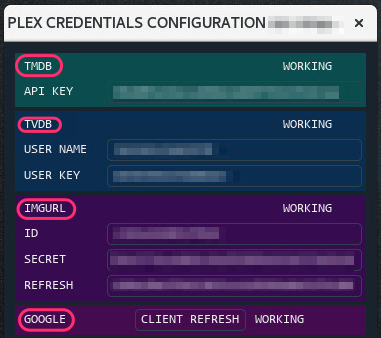
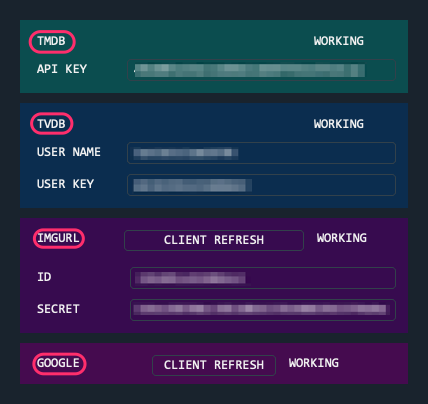
Fixing out the Imgur settings configuration
Changes to be committed:
	modified:   docs/source/conf.py
	modified:   docs/source/plex-config/plex-config-gui-figures/plex_credentials_mainfigure.png
	typechange: docs/source/plex-config/plex-config-services-figures/google_step01_credentials.png
	modified:   docs/source/plex-config/plex-config-services-figures/google_step02_refreshcredentials.png
	new file:   docs/source/plex-config/plex-config-services-figures/imgur_step01_registerapp.png
	new file:   docs/source/plex-config/plex-config-services-figures/imgur_step02_getclientsecret.png
	new file:   docs/source/plex-config/plex-config-services-figures/imgur_step03_clientsecret.png
	copied:     docs/source/plex-config/plex-config-services-figures/google_step01_credentials.png -> docs/source/plex-config/plex-config-services-figures/imgur_step04_credentials.png
	new file:   docs/source/plex-config/plex-config-services-figures/imgur_step05_authorizeaccount.png
	new file:   docs/source/plex-config/plex-config-services-figures/imgur_step06a_launchedURL.png
	new file:   docs/source/plex-config/plex-config-services-figures/imgur_step06b_copyURLdialog.png
	modified:   docs/source/plex-config/plex_config_gui_usage.rst
	modified:   docs/source/plex-config/plex_services_config.rst
	modified:   plexcore/plexcore.py
	modified:   plexcore/plexcore_attic.py

diff --git a/plexcore/plexcore.py b/plexcore/plexcore.py
@@ -1045,12 +1045,10 @@ def fill_out_movies_stuff( fullURL = 'http://localhost:32400', token = None,
             pool.map(_solve_problem_row, problem_rows ) )
         return movie_data_rows, genres
     
-def get_movie_titles_by_year( year, fullURL = 'http://localhost:32400',
-                              token = None ):
-    if token is None:
-        params = {}
-    else:
-        params = { 'X-Plex-Token' : token }
+def get_movie_titles_by_year(
+    year, fullURL = 'http://localhost:32400', token = None ):
+    if token is None: params = {}
+    else: params = { 'X-Plex-Token' : token }
     params['year'] = year
     libraries_dict = get_libraries( token = token, fullURL = fullURL )
     if libraries_dict is None:
@@ -1092,9 +1090,8 @@ def get_lastN_movies( lastN, token, fullURL = 'http://localhost:32400',
         plextmdb.get_movie( elem['title'] ) ),
                     valid_video_elems ) )
 
-"""
-All this stuff I found at https://support.plex.tv/hc/en-us/articles/201638786-Plex-Media-Server-URL-Commands
-"""
+#
+## All this stuff I found at https://support.plex.tv/hc/en-us/articles/201638786-Plex-Media-Server-URL-Commands
 def refresh_library( library_key, library_dict, fullURL = 'http://localhost:32400', token = None ):    
     assert( library_key in library_dict )
     if token is None: params = { }
@@ -1114,18 +1111,6 @@ def _get_failing_artistalbum( filename ):
 def get_lastupdated_string( dt = datetime.datetime.now( ) ):
     return dt.strftime('%A, %d %B %Y, at %-I:%M %p')
 
-def get_tvshownames_gspread( ):
-    import oauth2client.file, httplib2
-    credPath = os.path.join( mainDir, 'resources', 'credentials_gspread.json' )
-    storage = oauth2client.file.Storage( credPath )
-    credentials = storage.get( )
-    credentials.refresh( httplib2.Http( ) )
-    gclient = gspread.authorize( credentials )
-    sURL = 'https://docs.google.com/spreadsheets/d/10MR-mXd3sJlZWKOG8W-LhYp_6FAt0wq1daqPZ7is9KE/edit#gid=0'
-    sheet = gclient.open_by_url( sURL )
-    wksht = sheet.get_worksheet( 0 )
-    tvshowshere = set(filter(lambda val: len(val.strip()) != 0, wksht.col_values(1)))
-    return tvshowshere
 
 def oauthCheckGoogleCredentials( ):
     val = session.query( PlexConfig ).filter( PlexConfig.service == 'google' ).first( )

diff --git a/plexcore/plexcore_attic.py b/plexcore/plexcore_attic.py
@@ -13,13 +13,11 @@ dbloc = os.path.join( '/var/lib/plexmediaserver/Library/',
 
 @contextmanager
 def plexconnection( ):
-    import shutil, tempfile, sqlite3
     _, tmpsub = tempfile.mkstemp( suffix = '.db' )
     shutil.copy( dbloc, tmpsub )
     conn = sqlite3.connect( tmpsub )
     cursor = conn.cursor( )
-    try:
-        yield cursor
+    try: yield cursor
     finally:
         conn.close( )
         os.remove( tmpsub )
@@ -32,6 +30,10 @@ def get_allrows( ):
 def get_hash(filename):
     """
     Uses the SubDB API to get subtitles
+
+    :param str filename: the subtitle filename.
+    :returns: the MD5 hash of the subtitle filename.
+    :rtype: str
     """    
     assert( os.path.isfile( filename ) )
     readsize = 64 * 1024
@@ -41,3 +43,17 @@ def get_hash(filename):
         openfile.seek( -readsize, os.SEEK_END )
         data += openfile.read( readsize )
     return hashlib.md5(data).hexdigest( )
+
+def get_tvshownames_gspread( ):
+    import oauth2client.file, httplib2
+    credPath = os.path.join(
+        mainDir, 'resources', 'credentials_gspread.json' )
+    storage = oauth2client.file.Storage( credPath )
+    credentials = storage.get( )
+    credentials.refresh( httplib2.Http( ) )
+    gclient = gspread.authorize( credentials )
+    sURL = 'https://docs.google.com/spreadsheets/d/10MR-mXd3sJlZWKOG8W-LhYp_6FAt0wq1daqPZ7is9KE/edit#gid=0'
+    sheet = gclient.open_by_url( sURL )
+    wksht = sheet.get_worksheet( 0 )
+    tvshowshere = set(filter(lambda val: len(val.strip()) != 0, wksht.col_values(1)))
+    return tvshowshere

diff --git a/docs/source/conf.py b/docs/source/conf.py
@@ -44,11 +44,11 @@ extensions = [
 
 intersphinx_mapping = {
     'python': ('https://docs.python.org/3', None),
-    'requests': ('http://docs.python-requests.org/en/stable', None),
+    'requests': ('https://2.python-requests.org/en/master', None),
     'beautifulsoup' : ( 'https://www.crummy.com/software/BeautifulSoup/bs4/doc/', None),
     'geoip2' : ( 'https://geoip2.readthedocs.org/en/latest', None),
     'pyqt4' : ( 'https://www.riverbankcomputing.com/static/Docs/PyQt4', None ),
-    'requests' : ( 'https://docs.python-requests.org', None ),
+    'requests_oauthlib' : ( 'https://requests-oauthlib.readthedocs.io/en/latest', None ),
     }
 
 verify = False

diff --git a/docs/source/plex-config/plex_services_config.rst b/docs/source/plex-config/plex_services_config.rst
@@ -13,7 +13,7 @@ This document contains all the needed information to get started on getting set 
   1. Sending out emails to your Plex users, using the `GMail API <https://developers.google.com/gmail/api>`_, and identifying them from your Google address book using the `Google Contacts API <https://developers.google.com/contacts/v3>`_.
   2. Identifying songs on `YouTube <https://www.youtube.com>`_ using the `YouTube API <https://developers.google.com/youtube/v3>`_.
   3. Access to Google spreadsheets using the `Google Sheets API <https://developers.google.com/sheets/api>`_.
-  4. Upload your music to your `Google Play Music <https://play.google.com/store/music?hl=en>`_ account using the `unofficial Google Music API <https://unofficial-google-music-api.readthedocs.io/en/latest>`_.
+  4. Upload your music to your `Google Play Music <https://play.google.com/store/music?hl=en>`_ account using the `unofficial Google Music API <unofficial_google_music_api_>`_.
 
 The document is organized into the following sections.
 
@@ -27,7 +27,7 @@ The document is organized into the following sections.
 The Movie Database (TMDB) API
 ^^^^^^^^^^^^^^^^^^^^^^^^^^^^^
 
-Follow instructions on getting an access key for the TMDB API `here <https://developers.themoviedb.org/3/getting-started/introduction>`_. Click on the `API link <https://www.themoviedb.org/settings/api>`_.
+Instructions on getting an access key for the `TMDB API <https://developers.themoviedb.org/3/getting-started/introduction>`_ start with the `TMDB API link <https://www.themoviedb.org/settings/api>`_.
 
 The Television Database (TVDB) API
 ^^^^^^^^^^^^^^^^^^^^^^^^^^^^^^^^^^
@@ -80,7 +80,120 @@ The final information one programmatically sends to the TVDB service, through RE
 The Imgur API
 ^^^^^^^^^^^^^
 
-Good information on setting up Imgur API access can be found on `this website <https://apidocs.imgur.com/?version=latest>`_.
+Incomplete information on setting up Imgur API access can be found on `this website <https://apidocs.imgur.com/?version=latest>`_. High level instructions to generate valid Imgur client credentials are described in :numref:`Generate Imgur Credentials Using ``Plexstuff```. 
+
+
+Generate Imgur Credentials Using ``Plexstuff``
+------------------------------------------------
+
+Here are the steps used to get working Imgur API access using the ``plex_config_gui.py``. First register for an `Imgur account <https://imgur.com/register?redirect=https%3A%2F%2Fimgur.com%2F>`_, if you have not already done so.
+
+1. Once you have an account, `register an Imgur application <https://api.imgur.com/oauth2/addclient>`_. Specify an application name, choose the "OAuth2 authorization without a callback URL" option, provide an email address, and provide a basic description of the application. Here is a screen shot.
+
+.. _imgur_step01_registerapp:
+
+.. figure:: plex-config-services-figures/imgur_step01_registerapp.png
+   :width: 100%
+   :align: center
+
+2. Now go to your `Imgur application's webpage <https://imgur.com/account/settings/apps>`_ and click on the *generate new secret* to generate an application Oauth2 secret ID. Here is a screen shot.
+
+.. _imgur_step02_getclientsecret:
+
+.. figure:: plex-config-services-figures/imgur_step02_getclientsecret.png
+   :width: 100%
+   :align: center
+
+3. Then record the client ID and client secret, which will be used in ``plex_config_gui.py``. Here is a screen shot.
+
+.. _imgur_step03_clientsecret:
+.. figure:: plex-config-services-figures/imgur_step03_clientsecret.png
+   :width: 100%
+   :align: center
+
+4. Launch ``plex_config_gui.py``, which starts with a three row table: *LOGIN*, *CREDENTIALS*, and *MUSIC*. Right click on the *CREDENTIALS* row to launch a context menu with a single item, *Plex config credentials*. Click on *Plex config credentials*. Here is a screen shot.
+
+.. _imgur_step04_credentials:
+
+.. figure:: plex-config-services-figures/imgur_step04_credentials.png
+  :width: 100%
+  :align: center
+
+5. Fill in the Imgur client ID and Imgur client secret as shown in :numref:`imgur_step03_clientsecret` and then press the *REFRESH CLIENT* button. Here is a screen shot.
+
+.. _imgur_step05_authorizeaccount:
+
+.. figure:: plex-config-services-figures/imgur_step05_authorizeaccount.png
+  :width: 100%
+  :align: center
+
+6. At this point, two things occur. First, a new web browser window (or tab, if a browser window is open) that resolves to the URL that the Imgur client must use in order to finally authenticate the client. Copy the full URL in the browser's tab, as shown in :numref:`imgur_step06a_launchedURL` into the new dialog window shown in :numref:`imgur_step06b_copyURLdialog`. Press return in that dialog window.
+
+.. _imgur_step06a_launchedURL:
+
+.. figure:: plex-config-services-figures/imgur_step06a_launchedURL.png
+   :width: 100%
+   :align: center
+
+.. _imgur_step06b_copyURLdialog:
+
+.. figure:: plex-config-services-figures/imgur_step06b_copyURLdialog.png
+   :width: 100%
+   :align: center
+
+7. This **should** work -- the *Plex config credentials* widget should show **WORKING** under the Imgur settings panel. If this does not work, then close the Imgur URL dialog in :numref:`imgur_step06b_copyURLdialog` with the ``Esc`` key, and generate a new client secret as shown in :numref:`imgur_step02_getclientsecret`, and repeat until you are able to generate good Imgur client credential.
+
+Low Level Imgur Credentials
+---------------------------
+
+The lower level generation of Imgur credentials use `requests-oauthlib <https://requests-oauthlib.readthedocs.io/en/latest>`_ to generate the Imgur credentials.
+
+1. Follow steps 1-3 in :numref:`Generate Imgur Credentials Using ``Plexstuff``` to get the Imgur client ID and client secret.
+
+2. Generate the Oauth2 ``authorization_url`` and ``state`` variables, using this piece of example Python code. We also allow one to choose whether to verify SSL connections with a ``verify`` boolean variable.
+
+   .. code-block:: python
+
+      from requests_oauthlib import Oauth2Session
+
+      client_ID = "XXXXXXXX"
+      client_SECRET = "YYYYYYY"
+      variable = True
+      auth_url = "https://api.imgur.com/oauth2/authorize"
+      token_url = "https://api.imgur.com/oauth2/token"
+
+      imgur = Oauth2Session( client_ID )
+      authorization_url, state = authorization_url, state = imgur.authorization_url( auth_url, verify = False )
+
+3. Launch a browser at the ``authorization_url`` either manually or by running
+
+   .. code-block:: python
+
+      import webbrowser
+
+      webbrowser.open_new_tab( authorization_url )
+
+4. Copy the browser URL, as described in :numref:`imgur_step06a_launchedURL`, into ``response_url``, and generate the final OAuth2 token into a ``token`` dictionary object.
+
+   .. code-block:: python
+
+      imgur = Oauth2Session( client_ID, state = state )
+      token = imgur.fetch_token( token_url, authorization_response=response_url, client_secret=client_secret)
+
+   If the process does not work, an Exception will be emitted. If successful, the final ``token`` object looks like the following,
+   
+   .. code-block:: python
+
+      {'access_token': 'xxxxxx',
+       'expires_in': 315360000,
+       'token_type': 'bearer',
+       'scope': None,
+       'refresh_token': 'rrrrrr',
+       'account_id': <account_ID>,
+       'account_username': <account_username>,
+       'expires_at': zzzzz }
+
+   Copy ``token['refresh_token']`` with ``client_ID`` and ``secret_ID`` to authorize your Imgur client. Here, you can follow instructions as given in `the Imgur API page <https://apidocs.imgur.com>`.
 
 The Gracenote and LastFM APIs
 ^^^^^^^^^^^^^^^^^^^^^^^^^^^^^
@@ -94,16 +207,16 @@ The instructions for the LastFM API registration start `here <lastfm_intro_>`_. 
 .. _lastfm_step01_addapiaccount:
 
 .. figure:: plex-config-services-figures/lastfm_step01_addapiaccount.png
-  :width: 100%
-  :align: center
+   :width: 100%
+   :align: center
 
 2. You will land on the `LastFM API creation page <lastfm_create_>`_. Fill in the forms for *Application name*, *Application description*, and *Application homepage*. Leave *Callback URL* empty because it is optional. Click on the *Submit* button once done. Here is a screen shot.
 
 .. _lastfm_step02_registerapp:
 
 .. figure:: plex-config-services-figures/lastfm_step02_registerapp.png
-  :width: 100%
-  :align: center
+   :width: 100%
+   :align: center
 
 If everything has worked out, after clicking *Submit* you will see the *Application name*, *API key*, *Shared secret*, and *Registered to* fields. Record this information. Here is a screen shot.
 
@@ -135,9 +248,7 @@ We set up `Google <https://www.google.com>`_ services that use `YouTube <https:/
 
 Since these are all Google services, a single tool sets all of them up given a single Google account using Google's OAuth2_ authentication mechanism. The easiest way to do this is through the ``plex_config_gui.py`` executable, which is part of Plexstuff.
 
-1. Launch ``plex_config_gui.py``, which starts with a three row table: *LOGIN*, *CREDENTIALS*, and *MUSIC*. Right click on the *CREDENTIALS* row to launch a context menu with a single item, *Plex config credentials*. Click on *Plex config credentials*. Here is a screen shot.
-
-.. _google_step01_credentials:
+1. Launch ``plex_config_gui.py``, which starts with a three row table: *LOGIN*, *CREDENTIALS*, and *MUSIC*. Right click on the *CREDENTIALS* row to launch a context menu with a single item, *Plex config credentials*. Click on *Plex config credentials*. These instructions are the same as in step 4 in :numref:`The Imgur API` and in :numref:`imgur_step04_credentials`, which we reproduce here.
 
 .. figure:: plex-config-services-figures/google_step01_credentials.png
   :width: 100%
@@ -188,3 +299,4 @@ Since these are all Google services, a single tool sets all of them up given a s
 If all goes well, then all the Google services needed by Plexstuff will have been authorized.
 
 .. _OAuth2: https://en.wikipedia.org/wiki/OAuth#OAuth_2.0
+.. _unofficial_google_music_api: https://unofficial-google-music-api.readthedocs.io/en/latest

diff --git a/docs/source/plex-config/plex_config_gui_usage.rst b/docs/source/plex-config/plex_config_gui_usage.rst
@@ -4,7 +4,7 @@ Consolidating Plexstuff Configuration With ``plex_config_gui.py``
 
 Although ``plex_config_gui.py`` is part of ``plexcore``, and naturally lives in :numref:`Core Functionality`, I suggest you use this configuration tool to naturally consolidate the Plexstuff services and settings. The final configuration data will live in an `sqlite version 3 <https://en.wikipedia.org/wiki/SQLite>`_ database that is located in ``~/.local/plexstuff/app.db`` and is readable only by the user (and root).
 
-Some of the ``plex_config_gui.py`` screenshots are found in :numref:`Summary of Setting Up Google Credentials` (specifically :numref:`google_step01_credentials`, :numref:`google_step02_refreshcredentials`, and :numref:`google_step04_oauthtokenstring`) and in :numref:`Plexstuff Settings Configuration` (specifically :numref:`login_step01_login` and :numref:`login_step02_settings`).
+Some of the ``plex_config_gui.py`` screenshots are found in :numref:`Summary of Setting Up Google Credentials` (specifically :numref:`imgur_step04_credentials`, :numref:`google_step02_refreshcredentials`, and :numref:`google_step04_oauthtokenstring`) and in :numref:`Plexstuff Settings Configuration` (specifically :numref:`login_step01_login` and :numref:`login_step02_settings`).
 
 As described in :numref:`Plexstuff Services Configuration` and :numref:`Plexstuff Settings Configuration`, ``plex_config_gui.py`` start with the initial dialog widget of three sets of services and settings organized into three rows: *LOGIN*, *CREDENTIALS*, and *MUSIC*. The second column shows the number of services for each service set. The third column shows that number of services that are *working*. A screen shot illuminates this.
 
@@ -47,7 +47,7 @@ Use your Plex_ email and password for *PLEXLOGIN*, as described in :numref:`Cred
 Credentials Services
 ----------------------------
 
-As described in :numref:`Summary of Setting Up Google Credentials`, right click on the *CREDENTIALS* row in the main widget to launch the *PLEX CREDENTIALS CONFIGURATION* widget. The relevant screen shot, :ref:`credentials window <google_step01_credentials>`, is shown below.
+As described in :numref:`Summary of Setting Up Google Credentials`, right click on the *CREDENTIALS* row in the main widget to launch the *PLEX CREDENTIALS CONFIGURATION* widget. The relevant screen shot, :ref:`credentials window <imgur_step04_credentials>`, is shown below.
 
 .. figure:: plex-config-services-figures/google_step01_credentials.png
   :width: 100%
